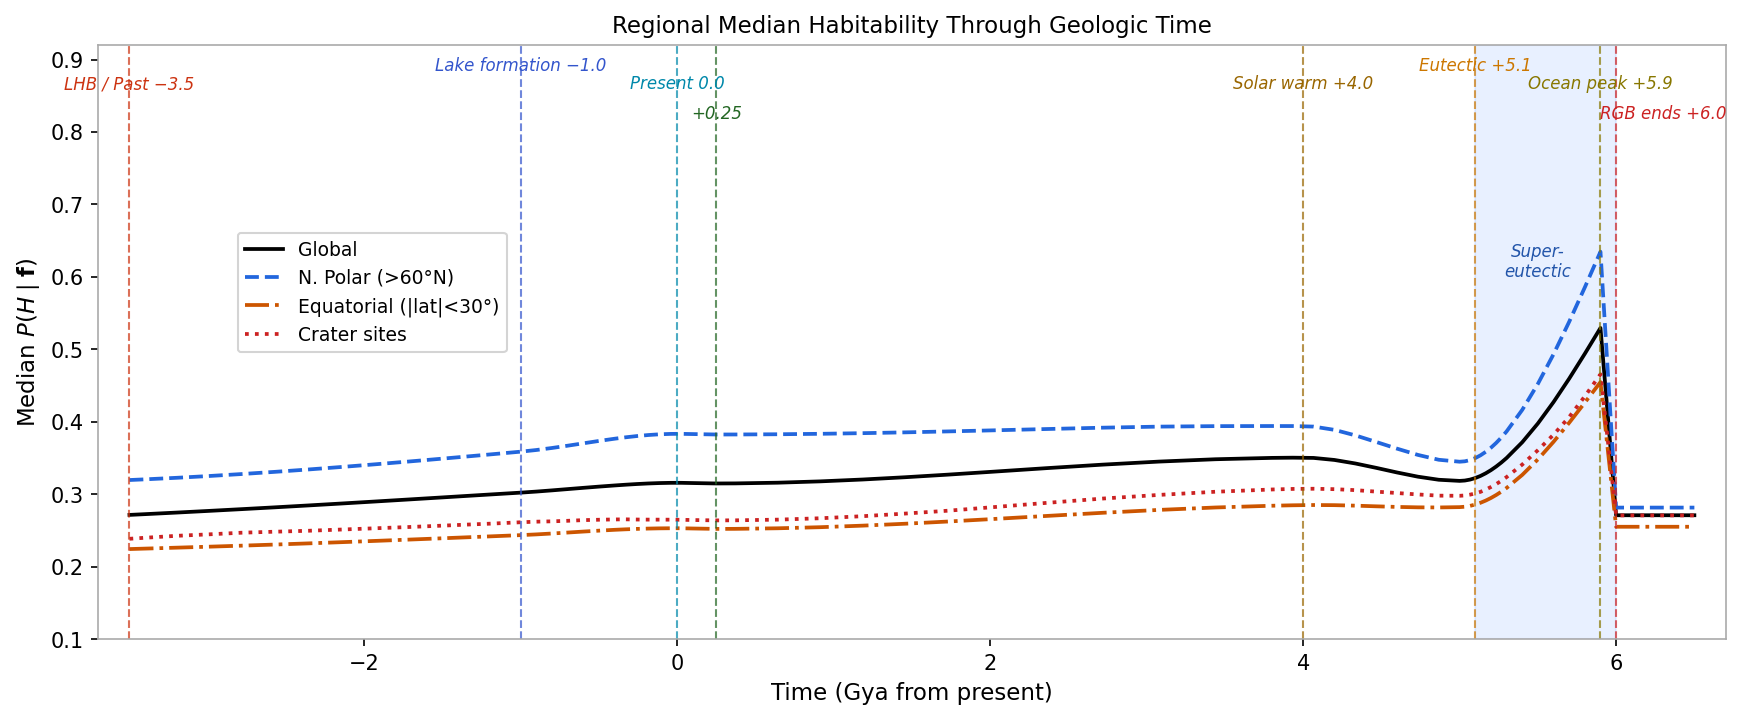
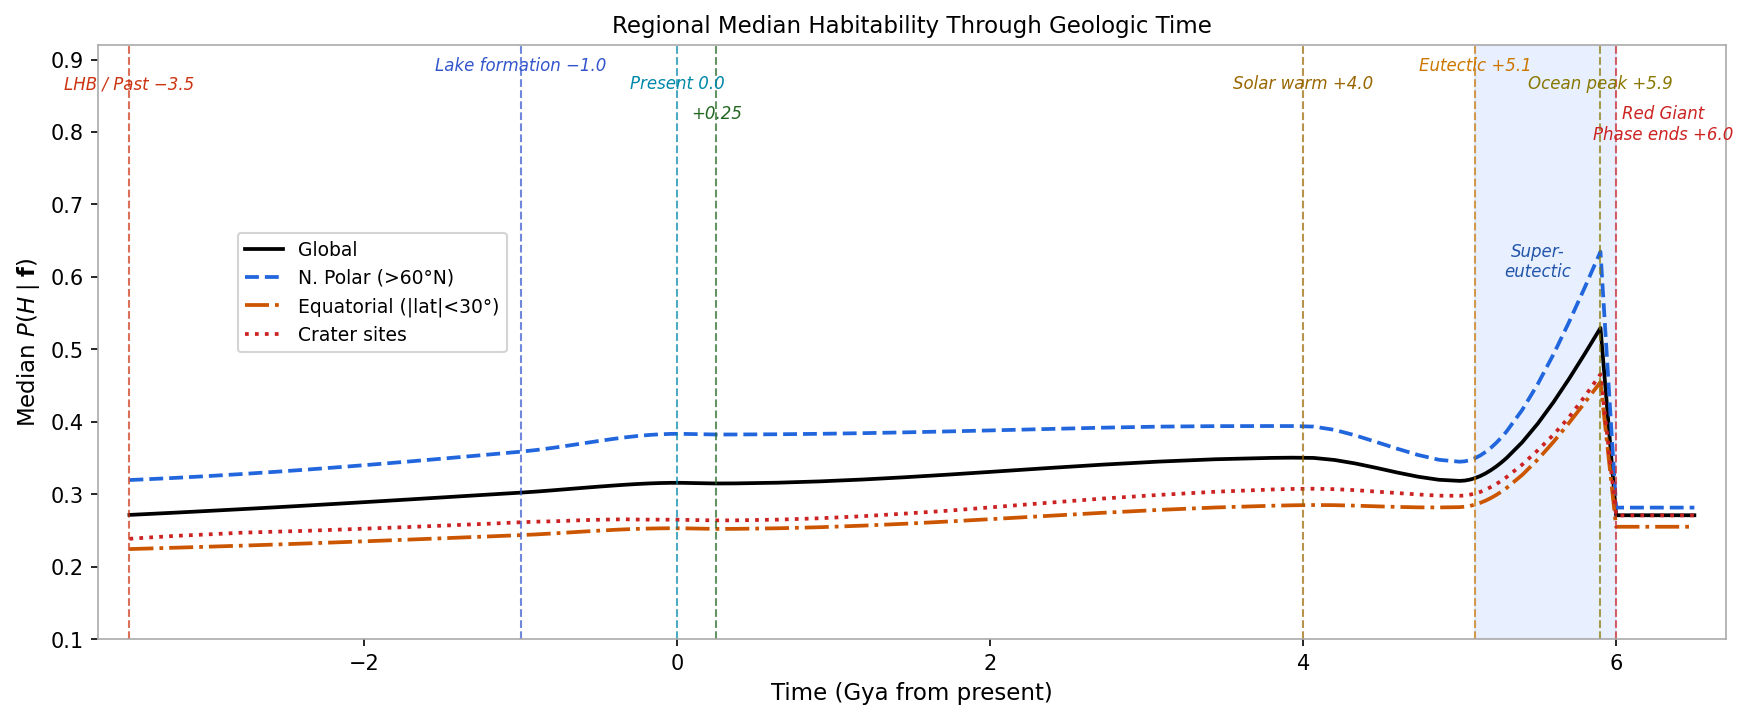
Style: em-dashes -> parentheses; RGB label -> "Red Giant Phase ends"; v26
- Prose: converted em-dash asides "--- ... ---" / "--- ..." to parentheses ()
  throughout methods.tex and results.tex (intro/discussion already clean), per
  the thesis style preference. Citations inside parens use \citealt. The one
  mid-sentence qualifier in results uses commas where that reads better than
  brackets. All four chapters now have zero em-dashes; math still balances.
- Figure: temporal-trend +6.0 marker relabelled "Red Giant Phase ends +6.0"
  (clearer than the bare "RGB"); regenerated and synced.
- version.tex -> v26.

diff --git a/thesis/results.tex b/thesis/results.tex
@@ -59,7 +59,7 @@ Impact structures (where the impact-melt proximity feature creates enhancements 
 
 The top-10 scores span $P(H) = 0.354$--$0.490$ (Table~\ref{tab:top10_past}), with a spread of 0.136.  All ten sites are polar proto-basins (locations that will become lake shores at later epochs), ranked here by the VIMS-derived organic abundance ($f_2$) accumulated at these locations, combined with elevated subsurface ocean proximity ($s_8{=}2.5$).  Towada Lacus (the overall \#1) has the highest VIMS organic signature of any polar site.  Equatorial dune fields (Belet, Shangri-La) rank outside the top 10 because the VIMS mosaic resolves per-pixel organic accumulation that favours the polar basins.  Cryovolcanic sites (Hotei, Sotra) similarly drop below rank 10.  In the 9-feature formula, large craters still rank below the polar sites (Selk $P(H){\approx}0.244$) because their organic abundance ($f_2=0.30$--$0.42$) remains substantially lower.  Despite these modest scores, the impact structures are the most astrobiologically significant sites at this epoch because they are the \textit{sole source} of transient liquid water on \titan{}'s surface, a distinction that the present framework, which quantifies solvent habitability rather than prebiotic chemistry potential, does not fully capture.  Selk crater's scientific importance lies in its unique position at the Shangri-La dune--plains boundary, where the organic substrate available for Strecker synthesis in the transient melt pond is maximised \citep{Neish2018}.
 
-If life exploited these transient oases, it would resemble the most opportunistic of terrestrial extremophiles: thermophilic chemotrophs gorging on dissolved tholins in temporary warm puddles, racing to complete a metabolic cycle before their habitat freezes shut --- less a biosphere than a series of biochemical flash mobs, each lasting a few thousand years before the lights go out.
+If life exploited these transient oases, it would resemble the most opportunistic of terrestrial extremophiles: thermophilic chemotrophs gorging on dissolved tholins in temporary warm puddles, racing to complete a metabolic cycle before their habitat freezes shut (less a biosphere than a series of biochemical flash mobs, each lasting a few thousand years before the lights go out).
 
 \begin{figure}[H]
   \centering
@@ -112,7 +112,7 @@ Comparing the \textit{Lake Formation} map (Figure~\ref{fig:lake_formation_global
 
 All ten top-10 sites at this epoch are polar proto-lake-shores (Table~\ref{tab:top10_lakeform}), continuing the pattern from the \textit{Past} epoch: VIMS-derived organic abundance dominates the ranking even before the polar seas have filled.  The score spread has narrowed to 0.124 ($P(H) = 0.392$--$0.516$), reflecting the combined effect of $f_2$ variation and the emerging liquid signal.  Equatorial dune fields (Belet, Shangri-La) rank outside the top 10 because the VIMS mosaic resolves lower per-pixel organic abundance at these specific equatorial locations than their terrain class implies.  As the polar seas fill between $-0.5\gya$ and the \textit{Present} epoch, the polar advantage amplifies further rather than inverting: the liquid-hydrocarbon feature adds to the existing VIMS organic lead, widening the polar--equatorial contrast to its maximum.
 
-Any organism inhabiting these nascent lakes would face a solvent 180\,K colder than the coldest terrestrial habitat, with reaction kinetics approximately $10^{6}$ times slower than in water at room temperature \citep{SchulzeMakuch2005}.  Life here would not so much swim as \textit{diffuse} --- a metabolism measured in centuries per cell division, making even the most patient terrestrial glacier microbe look hyperactive by comparison.
+Any organism inhabiting these nascent lakes would face a solvent 180\,K colder than the coldest terrestrial habitat, with reaction kinetics approximately $10^{6}$ times slower than in water at room temperature \citep{SchulzeMakuch2005}.  Life here would not so much swim as \textit{diffuse} (a metabolism measured in centuries per cell division, making even the most patient terrestrial glacier microbe look hyperactive by comparison).
 
 \begin{figure}[H]
   \centering
@@ -191,7 +191,7 @@ The score spread (0.175) is the widest of any epoch except the \textit{Future}, 
 
 A caveat on the site rankings is warranted.  With 95\% CI widths of $\sim$0.5 at every pixel (e.g.\ Towada: $[0.29, 0.83]$; Mackay: $[0.16, 0.70]$), the credible intervals of rank-1 and rank-10 sites overlap extensively.  Individual site rankings within the top 10 are therefore not statistically distinguishable at 95\% confidence.  The robust finding is the \textit{class} result: polar lake shores as a group score systematically higher than equatorial terrain (group means $\sim$0.42 vs $\sim$0.22, a ratio of $\sim$1.9), and this separation is stable across all 27 sensitivity combinations.  Claims about the specific rank ordering within the top 10 should be understood as maximum-likelihood point estimates rather than statistically significant distinctions.
 
-A hypothetical present-day organism at Towada Lacus would consume atmospheric acetylene and hydrogen, exhale methane, and wrap itself in an azotosome membrane --- a cell wall made of nitrogen rather than phospholipid \citep{Stevenson2015}.  It would experience perpetual darkness for half the Saturnian year, survive methane rainstorms, and regard $-179\,^{\circ}$C as a balmy afternoon.  In terrestrial terms, it would be the ultimate cold-adapted methanogen: an organism for which our most extreme Antarctic endolith \citep{Friedmann1982} would be, by comparison, basking on a tropical beach.
+A hypothetical present-day organism at Towada Lacus would consume atmospheric acetylene and hydrogen, exhale methane, and wrap itself in an azotosome membrane (a cell wall made of nitrogen rather than phospholipid, \citealt{Stevenson2015}).  It would experience perpetual darkness for half the Saturnian year, survive methane rainstorms, and regard $-179\,^{\circ}$C as a balmy afternoon.  In terrestrial terms, it would be the ultimate cold-adapted methanogen: an organism for which our most extreme Antarctic endolith \citep{Friedmann1982} would be, by comparison, basking on a tropical beach.
 
 
 
@@ -323,7 +323,7 @@ The \textit{Near Future} epoch ($+0.25\gya$) confirms that \titan{}'s lake--orga
 
 This stability will persist until approximately $+4.0\gya$, when increasing solar warming begins to evaporate the polar seas, initiating the transition towards the solvent-free minimum at $\sim$$+5.0\gya$ visible in the temporal trend (Figure~\ref{fig:temporal_trend}).
 
-During this time, any organism that had adapted to the previous Present epoch would barely notice the transition: the $\sim$2\,K warming amounts to upgrading from a parka to a slightly thinner parka.  The methane rain continues, the acetylene supply is uninterrupted, and natural selection has $\sim$$4\,\times\,10^{9}$\,yr of evolutionary stability --- from the present through to $\sim$$+4.0\gya$ when solar warming begins to evaporate the seas --- a luxury that Earth's biosphere, punctuated by mass extinctions every $\sim$$10^{8}$\,yr, has never enjoyed.
+During this time, any organism that had adapted to the previous Present epoch would barely notice the transition: the $\sim$2\,K warming amounts to upgrading from a parka to a slightly thinner parka.  The methane rain continues, the acetylene supply is uninterrupted, and natural selection has $\sim$$4\,\times\,10^{9}$\,yr of evolutionary stability (from the present through to $\sim$$+4.0\gya$ when solar warming begins to evaporate the seas), a luxury that Earth's biosphere, punctuated by mass extinctions every $\sim$$10^{8}$\,yr, has never enjoyed.
 
 
 \begin{figure}[H]
@@ -372,9 +372,9 @@ The \textit{Future} epoch ($+5.9\gya$) models the most dramatic transformation o
 
 The \textit{Future} map (Figure~\ref{fig:future_global}) shows elevated posteriors across the entire surface, the highest global mean of any epoch.  The sharp polar/equatorial contrast of the \textit{Present} epoch is reduced but not eliminated: former polar lake basins, whose VIMS-derived organic abundance was highest at the Present epoch, retain their spatial advantage through the organic stockpile feature, scoring substantially higher than inundated equatorial terrain.  Comparing with the temporal trend (Figure~\ref{fig:temporal_trend}), this epoch represents the recovery from the solvent-free minimum at $\sim$$+5.0\gya$; the north polar and equatorial curves approach one another but do not equalise, because the organic accumulation advantage of the polar basins persists through the ocean-covered epoch.  The ranking is dominated by former polar lake sites (Table~\ref{tab:top10_future}).  Uvs Lacus ($P(H){=}0.713$) leads at this epoch, with Towada Lacus at \#2 ($P(H){=}0.704$) and Logtak Lacus at \#3 ($P(H){=}0.683$); the high organic stockpile prior ($\mu=0.850$, $w=0.20$) at the Future epoch reorders these sites relative to the Present ranking based on per-pixel VIMS organic score differences at the specific pixels sampled.  Former polar lake basins occupy all ten top-10 positions, with scores ranging from 0.594 to 0.713, far above the prior-epoch maximum of 0.573 (Towada, Present).  Cryovolcanic sites (Hotei, Sotra) and inundated equatorial dune fields (Belet, Shangri-La) rank below the top 10.
 
-The score spread (0.120: from 0.594 to 0.713) is driven by VIMS-derived organic abundance variation inherited through the organic stockpile feature; the remaining features (surface--atmosphere interaction, topographic complexity) contribute negligible differentiation when solvent availability is globally uniform.  The red-giant ocean --- super-eutectic from $+5.1$ to $+6.0\gya$, with a clement window of $\sim$400\,Myr \citep{Lorenz1997} --- is the longest continuous period of global liquid coverage in \titan{}'s modelled history, combining maximal organic inventory with warm water--ammonia solvent: an extraordinary future habitability scenario unmatched by any other epoch or body in the post-main-sequence solar system.  Of all epochs modelled, this represents the strongest candidate for satisfying the preconditions for aqueous abiogenesis (Section~\ref{sec:defining_habitability}): warm liquid water, the full accumulated organic inventory of $\sim$10\,Gyr of photochemistry, and a timescale ($\sim$10$^9$\,yr) comparable to the interval between the formation of Earth's oceans and the earliest evidence of terrestrial life.  As throughout this thesis, this is a statement about precondition co-occurrence, not a claim that abiogenesis occurs.
+The score spread (0.120: from 0.594 to 0.713) is driven by VIMS-derived organic abundance variation inherited through the organic stockpile feature; the remaining features (surface--atmosphere interaction, topographic complexity) contribute negligible differentiation when solvent availability is globally uniform.  The red-giant ocean (super-eutectic from $+5.1$ to $+6.0\gya$, with a clement window of $\sim$400\,Myr \citep{Lorenz1997}) is the longest continuous period of global liquid coverage in \titan{}'s modelled history, combining maximal organic inventory with warm water--ammonia solvent: an extraordinary future habitability scenario unmatched by any other epoch or body in the post-main-sequence solar system.  Of all epochs modelled, this represents the strongest candidate for satisfying the preconditions for aqueous abiogenesis (Section~\ref{sec:defining_habitability}): warm liquid water, the full accumulated organic inventory of $\sim$10\,Gyr of photochemistry, and a timescale ($\sim$10$^9$\,yr) comparable to the interval between the formation of Earth's oceans and the earliest evidence of terrestrial life.  As throughout this thesis, this is a statement about precondition co-occurrence, not a claim that abiogenesis occurs.
 
-An organism that had spent billions of years perfecting cryogenic methane biochemistry would face the most dramatic environmental challenge in \titan{}'s history --- analogous to, but far more extreme than, the terrestrial Great Oxidation Event.  If the transition through the solvent-free desert at $\sim$$+5.0\gya$ does not sterilise the surface entirely, the survivors would find themselves in warm water with an effectively unlimited organic buffet.  With $\sim$400\,Myr of sustained molecular evolution in conditions comparable to those that produced the first eukaryotes on Earth \citep{Knoll2014}, the Future ocean is --- at least in principle, and assuming abiogenesis occurs at all --- the epoch where \titan{} stops being a world of patient, diffusing chemotrophs and starts being a world where biology could get ambitious.
+An organism that had spent billions of years perfecting cryogenic methane biochemistry would face the most dramatic environmental challenge in \titan{}'s history (analogous to, but far more extreme than, the terrestrial Great Oxidation Event).  If the transition through the solvent-free desert at $\sim$$+5.0\gya$ does not sterilise the surface entirely, the survivors would find themselves in warm water with an effectively unlimited organic buffet.  With $\sim$400\,Myr of sustained molecular evolution in conditions comparable to those that produced the first eukaryotes on Earth \citep{Knoll2014}, the Future ocean is, at least in principle and assuming abiogenesis occurs at all, the epoch where \titan{} stops being a world of patient, diffusing chemotrophs and starts being a world where biology could get ambitious.
 
 \begin{figure}[H]
   \centering

diff --git a/thesis/methods.tex b/thesis/methods.tex
@@ -361,7 +361,7 @@ All features at directly measured Cassini values; no temporal scaling applied.  
 Solar luminosity rises from $+1.4\%$ to $\sim+6\%$ above present across this window \citep{Bahcall2001}, corresponding to surface temperature increases of $\sim$1--5\,K, entirely absorbed by the model and producing no spatially structured change in any feature.  The representative animation frame is drawn from $+1.19\,\gya$ within the plateau; this epoch and all intermediate epochs within the window are functionally equivalent for habitability purposes.  The spatial correlation between any two epochs in this range exceeds $r = 0.999$; all rankings are preserved.  This demonstrates that \titan{}'s lake--organic habitability system is robust to main-sequence solar evolution over at least $\sim$1\,Gyr.
 
 \paragraph{\textit{Future} ($+5.9\gya$).}
-Red-giant ocean surface regulated to $T_s\approx250$\,K --- the haze anti-greenhouse holds the surface near the water--ammonia liquid range and well below the bare-radiative value as the Sun brightens \citep{Lorenz1997} --- above the water--ammonia eutectic at all latitudes.  The transformed feature set replaces liquid hydrocarbon with water--ammonia solvent availability ($w=0.30$), organic abundance with organic stockpile ($w=0.20$), acetylene energy with dissolved chemical energy ($w=0.15$), methane cycle with water--ammonia cycle ($w=0.10$), and subsurface ocean with global ocean habitability ($w=0.05$); the remaining three features (surface--atmosphere, topographic complexity, geomorphological diversity) are retained with adjusted weights.  The resulting prior mean $\mu_0 = 0.695$ gives posterior bounds $[0.316,\,0.861]$, reflecting the strong prior expectation that a warm global water--ammonia ocean is substantially more habitable than the present cryogenic hydrocarbon system.  Organic accumulation reaches its maximum after $\sim$10\,Gyr of UV photolysis.  In this simplified radiative model the surface exceeds the eutectic from $+5.1$ to $+6.0\gya$; following \citet{Lorenz1997} we adopt the genuinely clement ocean window as $\sim$400\,Myr, bounded by the haze/UV photochemistry of the reddening Sun (which our model does not resolve) rather than by the bare luminosity collapse.
+Red-giant ocean surface regulated to $T_s\approx250$\,K (the haze anti-greenhouse holds the surface near the water--ammonia liquid range and well below the bare-radiative value as the Sun brightens, \citealt{Lorenz1997}), above the water--ammonia eutectic at all latitudes.  The transformed feature set replaces liquid hydrocarbon with water--ammonia solvent availability ($w=0.30$), organic abundance with organic stockpile ($w=0.20$), acetylene energy with dissolved chemical energy ($w=0.15$), methane cycle with water--ammonia cycle ($w=0.10$), and subsurface ocean with global ocean habitability ($w=0.05$); the remaining three features (surface--atmosphere, topographic complexity, geomorphological diversity) are retained with adjusted weights.  The resulting prior mean $\mu_0 = 0.695$ gives posterior bounds $[0.316,\,0.861]$, reflecting the strong prior expectation that a warm global water--ammonia ocean is substantially more habitable than the present cryogenic hydrocarbon system.  Organic accumulation reaches its maximum after $\sim$10\,Gyr of UV photolysis.  In this simplified radiative model the surface exceeds the eutectic from $+5.1$ to $+6.0\gya$; following \citet{Lorenz1997} we adopt the genuinely clement ocean window as $\sim$400\,Myr, bounded by the haze/UV photochemistry of the reddening Sun (which our model does not resolve) rather than by the bare luminosity collapse.
 
 \section{Multi-Epoch Habitability Reconstruction}
 \label{sec:multi_epoch}

diff --git a/scripts/generate_temporal_trend.py b/scripts/generate_temporal_trend.py
@@ -317,7 +317,7 @@ EVENTS = [
     ( 4.0, "#996600", "Solar warm +4.0",      0.95),
     ( 5.1, "#cc7700", "Eutectic +5.1",        0.98),
     ( 5.9, "#887700", "Ocean peak +5.9",      0.95),
-    ( 6.0, "#cc2222", "RGB ends +6.0",        0.90),
+    ( 6.0, "#cc2222", "Red Giant\nPhase ends +6.0",        0.90),
 ]
 xfm = ax.get_xaxis_transform()   # x in data coords, y in axes-fraction
 for xv, col, label, yoff in EVENTS:

diff --git a/thesis/version.tex b/thesis/version.tex
@@ -1,4 +1,4 @@
 %% version.tex — Thesis version tracking
 %% Update this file for each revision.
-\newcommand{\thesisversion}{v25}
-\newcommand{\thesisdate}{20th June 2026}
+\newcommand{\thesisversion}{v26}
+\newcommand{\thesisdate}{26th June 2026}
